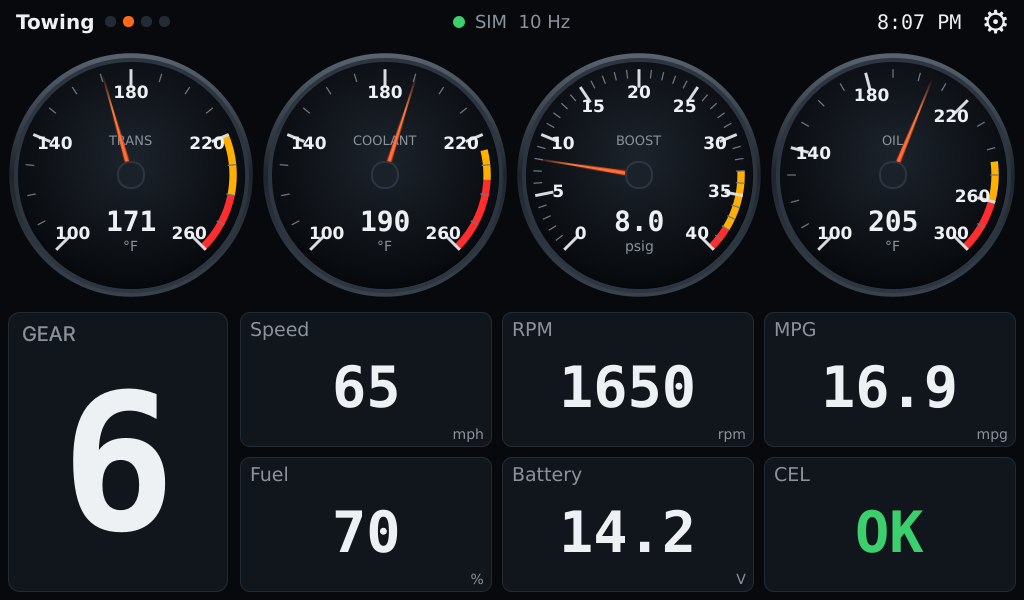
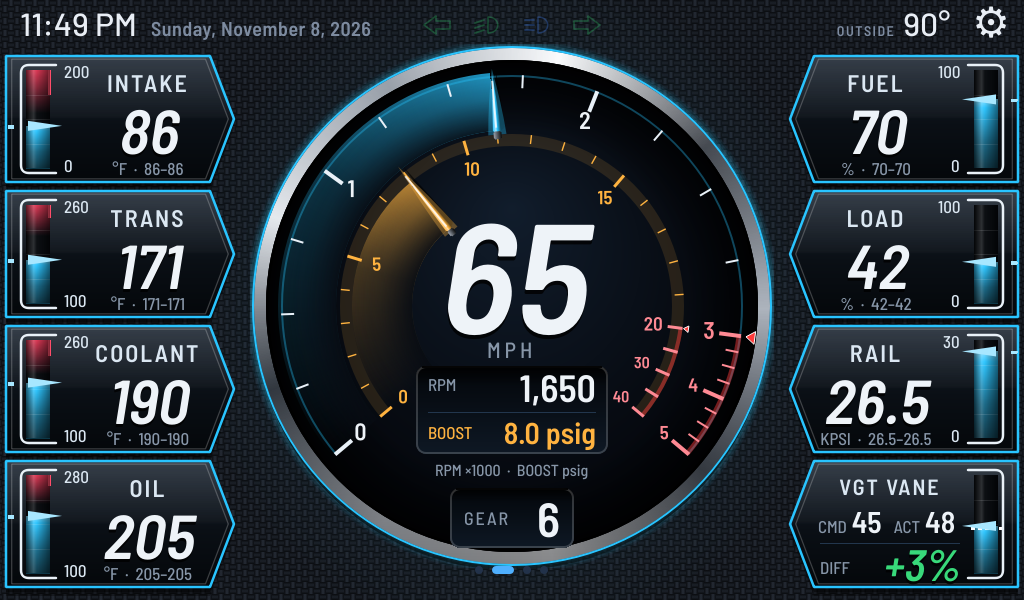
Docs: D31 towing page, red lines, split scales, appearance; screenshots
Claude-Session: https://claude.ai/code/session_01NB1fkpFcGY28RY4JZ8NWPC

diff --git a/docs/decisions.md b/docs/decisions.md
@@ -248,3 +248,27 @@ Confirmed on the Pi on 2026-11-08: EGLFS starts and GaugeWorks uses 10-20% CPU.
 The Qt packages install with `--no-install-recommends`, which skips GTK and
 friends. That makes `qt6-svg-plugins` an explicit package, because the themes
 draw their faces and needles from SVGs.
+
+## D31. Towing page (P3), settable red lines, split scales, appearance settings
+Built from the v2 mockup P3 (`docs/mockups/v2/`), as a new page template,
+`towing` (`gaugeworks/qml/PageTowing.qml`, with `TowGauge`, `TowPanel` and
+`RangeBar`). It's a standard page, so every theme uses it until a theme ships
+its own skin.
+- Slots: `center` (speed), `ring` (RPM), `inner` (boost), `box1`/`box2` (RPM
+  and boost digits), `l1`-`l4` and `r1`-`r4` (panels; `r4` is the VGT dual).
+  Gear comes from the profile's `gaugeworks.gear`. Every slot can be swapped
+  with press and hold.
+- Red lines are per reading. The default is the profile's `display.<key>.alarm`.
+  JP can override it from the picker (press and hold), and it's saved per
+  vehicle in settings `limits`, in imperial display units like the profile. At
+  or over the red line, that reading's trail, pointer, digits and bar blink at
+  3 Hz. Defaults on the F-250: 3,000 rpm and 20 psi.
+- Split scales: `display.<key>.split` puts min..split on 7/8 of the sweep and
+  squeezes split..max into the last 1/8. That's 3,000 rpm and 20 psi on the F-250.
+- GaugeWorks tracks each reading's min and max since it started (this drive),
+  shown as a bracket on the bars and as text under the value.
+- Settings: Background (carbon, expanded metal, diamond plate, brushed,
+  honeycomb, black; default carbon; textures in `gaugeworks/assets/bg/`) and
+  Colors (two accents from a hue-ring picker; red, amber and green stay fixed).
+- No new Qt modules: shadows and glow are drawn, not effects, and static art is
+  painted once with Canvas.

diff --git a/CLAUDE.md b/CLAUDE.md
@@ -95,7 +95,9 @@ against FORScan or the dash.
   GaugeWorks on the HDMI screen is also done: pages, press-and-hold slot
   picker, USB export, CEL banner and themes. The Premium theme is an
   OEM-style skin with chrome dials, a centre economy/engine card, long date
-  and time, and telltales. First drive 2026-11-07 showed RPM lag, so polling
+  and time, and telltales. The Towing page is the v2 P3 design (D31): speed
+  center, RPM and boost rings with split scales, eight panels with range
+  bars, settable red lines that blink at 3 Hz, background and color settings. First drive 2026-11-07 showed RPM lag, so polling
   now uses tiers (D23); retest on the next drive.
 - 1.5: Phone web dashboard (view-only) over mosquitto websockets plus a Pi
   hotspot on the road.
@@ -141,6 +143,12 @@ against FORScan or the dash.
   2026-11-08. EGLFS starts, and GaugeWorks uses 10-20% CPU in sim. Needs
   `qt6-svg-plugins` (theme SVGs); Qt packages install without recommends.
 - Truck/Simulator switch is in Settings (D26).
+- Theme rework (v2 mockups, `docs/mockups/v2/KEY.md`): P3 is built (D31).
+  Next pages to finish with JP: P1 Daily, P2 Sport, P4 Economy, P5 Trend
+  (keeper; needs a value history in GaugeWorks), and Classic C1-C4. Then drop
+  the other themes (keep Premium and Classic).
+- Check P3 on the Pi: blink rate, touch on the panels, the red-line control
+  and the color picker, and the CPU load with the trails moving.
 - Reference dash styles JP liked are noted in `docs/mockups/README.md`.
 
 ## Working style
